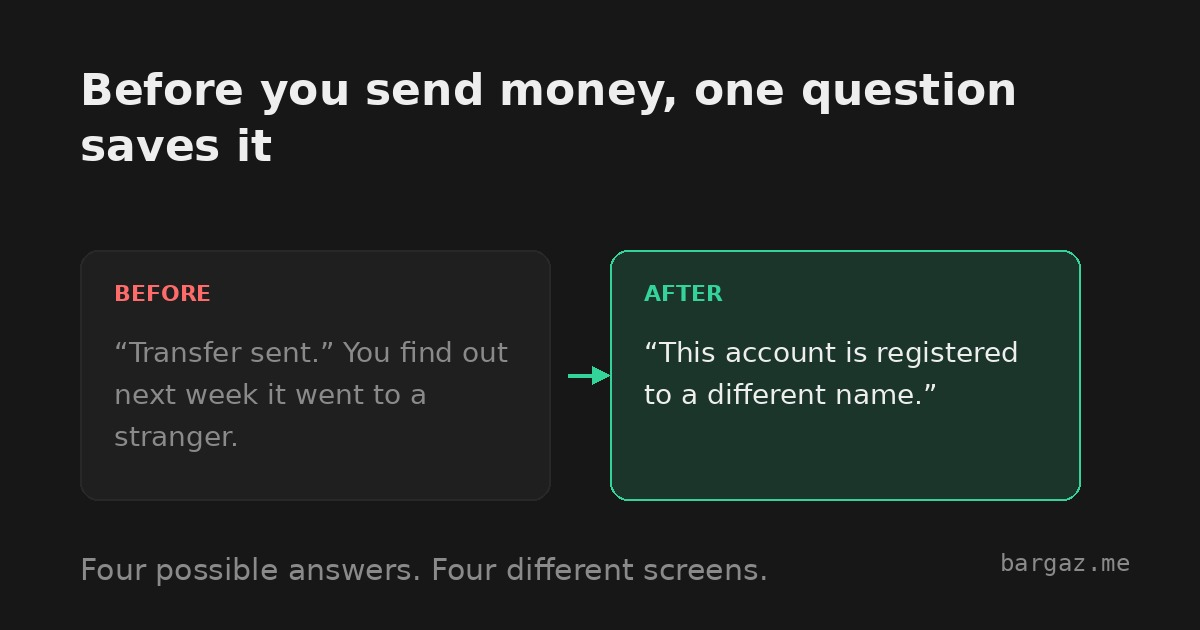
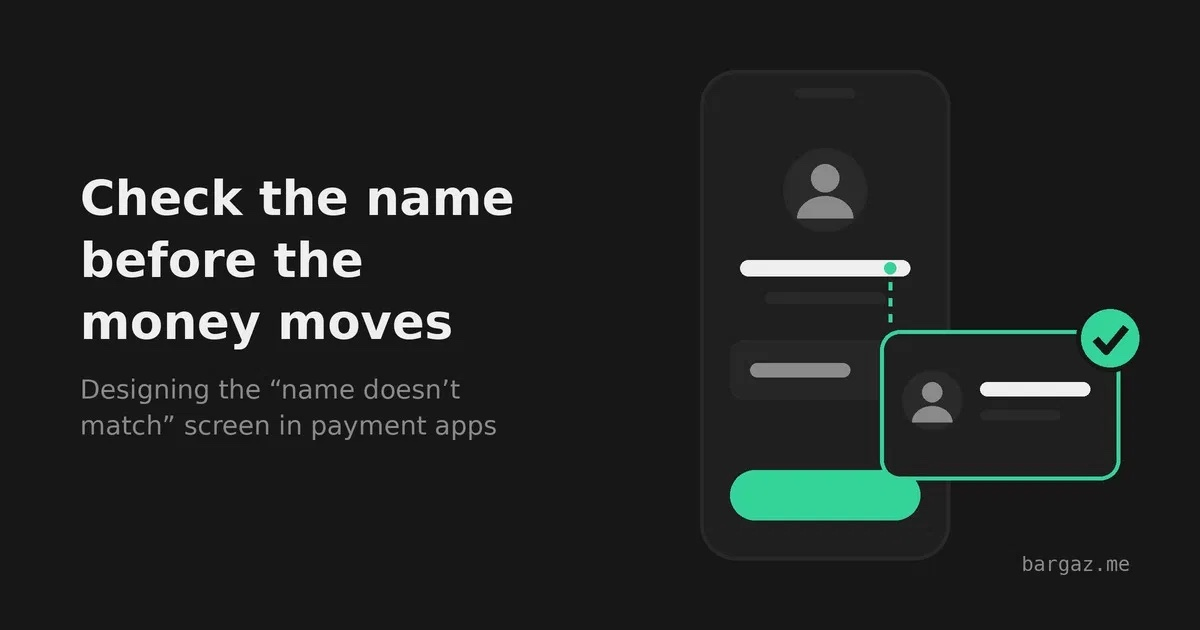
post: update Verification of Payee hero image and re-date to 16-11-2026
Replace the Before/After template hero with the new illustration and move
the post to the top of the list; adjust Sept 2026 rulebook references to
past tense.

diff --git a/content/.content-calendar.md b/content/.content-calendar.md
@@ -7,10 +7,10 @@
 - 2026-07-19 · D · Decision Fatigue Is the Real AI Burnout, and One Rule Fixes It · post/decision-fatigue-ai-code-review (hero: template 4 Icon+headline)
 - 2026-08-02 · A · Next.js Instant Navigations: Your Server App Can Finally Feel Like a SPA · post/nextjs-instant-navigations (hero: illustration — browser window + cursor + bolt)
 - 2026-08-17 · B · Context Engineering: Why Your AI Agent Gets Worse the More You Tell It · post/context-engineering-for-coding-agents (hero: illustration — scattered documents → funnel → one clean page)
-- 2026-08-23 · C · Verification of Payee: The Four Answers Your Transfer Screen Has to Handle · post/verification-of-payee-frontend (hero: template 2 Before/After)
 - 2026-08-30 · C · Secure Payment Confirmation: Pay With Face ID Instead of an SMS Code · post/secure-payment-confirmation-checkout (hero: illustration — checkout window + fingerprint + check badge)
 - 2026-09-06 · A · TypeScript 7 Is 10x Faster — but Your Linter Can't Use It Yet · post/typescript-7-migration (hero: illustration — stopwatch + shrinking build-time bars; D skipped this week by request — pick D or C next)
 - 2026-09-20 · D · The AI-Assisted Coding Interview Scores Your Judgment, Not Your Typing · post/ai-assisted-coding-interview-practice (hero: illustration — page with a sparkle badge + magnifier catching a flagged line)
 - 2026-09-28 · C · European Accessibility Act: Your Banking App Is Now Legally Required to Be Accessible · post/european-accessibility-act-banking-apps (hero: illustration — phone with balance + accessibility badge + sound waves; extra post by request)
 - 2026-10-25 · A · React View Transitions Are Stable: Smooth Page Animations Without an Animation Library · post/react-view-transitions-stable (hero: illustration — small phone with highlighted card → arrows → big phone with accent card + sparkle)
 - 2026-11-08 · B · Leaked API Keys Now Get Found by AI Agents in Minutes: The 15-Minute Fix · post/leaked-api-keys-ai-agents (hero: illustration — browser page with a big key + stopwatch badge + magnifier)
+- 2026-11-16 · C · Verification of Payee: The Four Answers Your Transfer Screen Has to Handle · post/verification-of-payee-frontend (hero: illustration — phone transfer form + name-check card with check badge)
